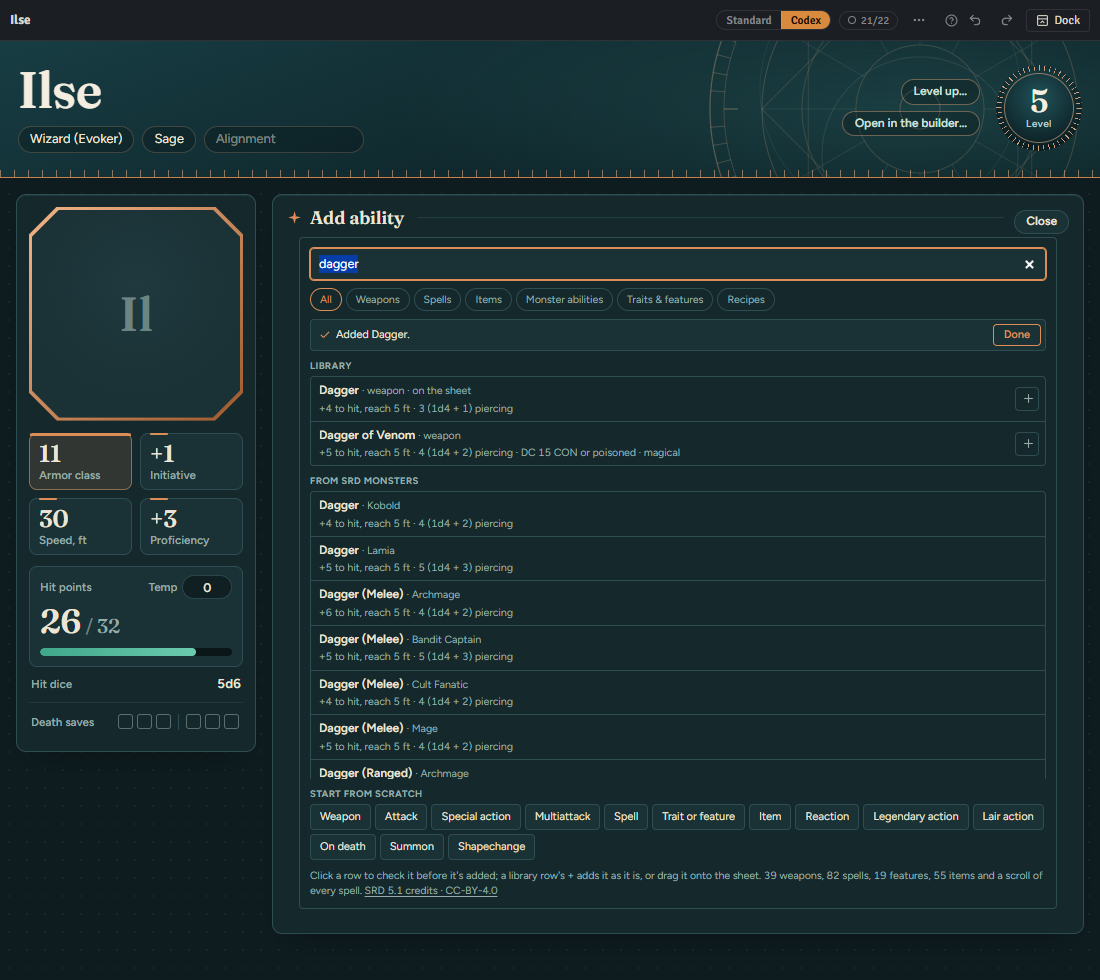
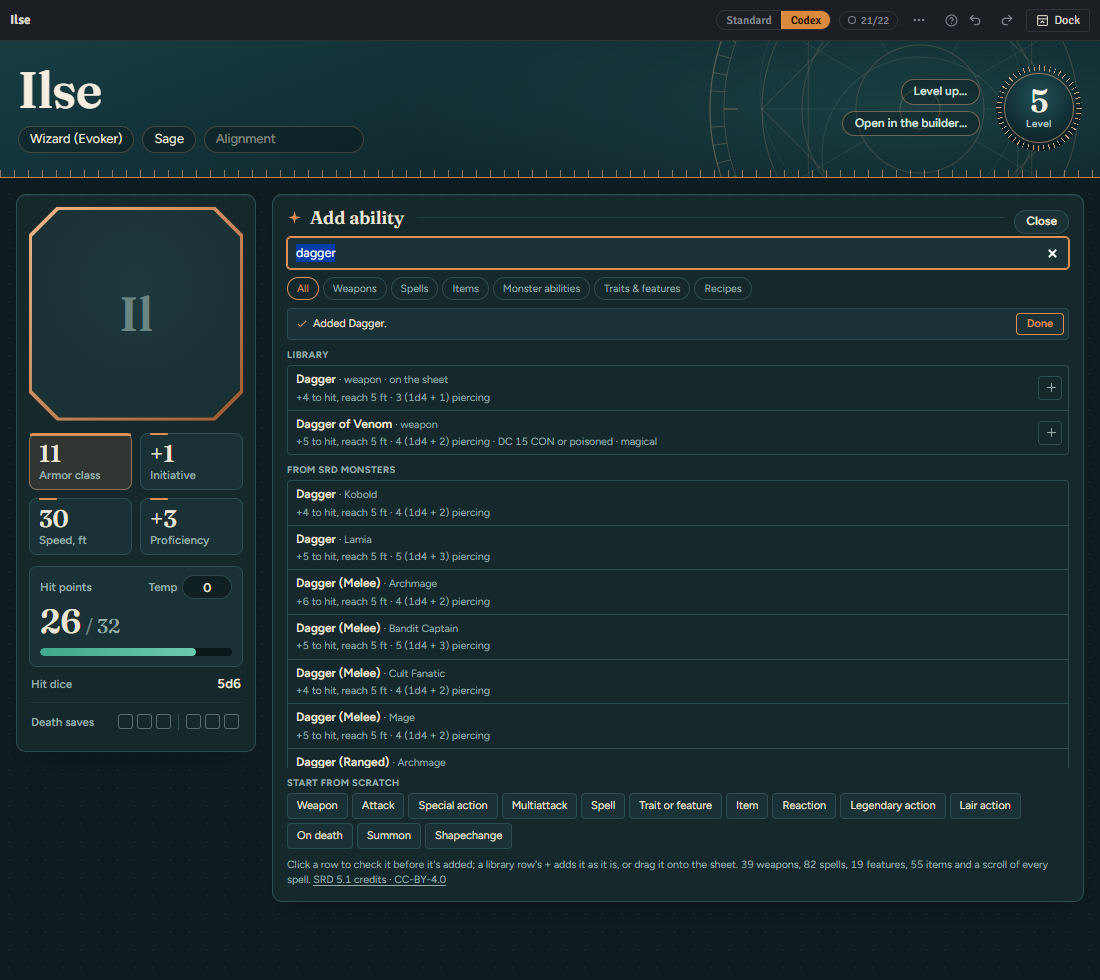
Codex: Add ability without a second frame
AddAbility takes bare (no frame, margin or background of its own), and the
Codex uses it inside its panel.

Changed region(s): [[0.2473, 0.2449, 0.9891, 0.9184], [0.8964, 0.3061, 0.9582, 0.398], [0.9273, 0.4286, 0.9582, 0.4592]]

diff --git a/src/components/sheet/abilities/AddAbility.tsx b/src/components/sheet/abilities/AddAbility.tsx
@@ -65,7 +65,7 @@ function onSheet(definition: CreatureDefinition): Set<string> {
  * to start from scratch. A row opens the editor on a ready copy, and nothing is added until Save; a library row's "+"
  * adds it at once and leaves the panel open for the next one, and it can be dragged onto the sheet.
  */
-export function AddAbility({ definition, compendium, onPrepared, onAttach, onBlank, onClose, initialFilter = "all" }: {
+export function AddAbility({ definition, compendium, onPrepared, onAttach, onBlank, onClose, initialFilter = "all", bare = false }: {
   definition: CreatureDefinition;
   compendium?: Compendium;
   onPrepared: (prepared: Prepared) => void;
@@ -74,6 +74,8 @@ export function AddAbility({ definition, compendium, onPrepared, onAttach, onBla
   onClose: () => void;
   /** What it shows first: All, or (the Codex's Spells and Items tabs) Spells or Items. */
   initialFilter?: AddFilter;
+  /** Without its own frame, inside a panel that has one (the Codex's). */
+  bare?: boolean;
 }) {
   const [query, setQuery] = useState("");
   const [filter, setFilter] = useState<AddFilter>(initialFilter);
@@ -149,7 +151,7 @@ export function AddAbility({ definition, compendium, onPrepared, onAttach, onBla
   const open5eItems = filter === "items";
   const nothing = !showRecipes && !results.library.length && !results.monster.length;
   return (
-    <div className={styles.add} role="region" aria-label="Add ability">
+    <div className={`${styles.add} ${bare ? styles.addBare : ""}`} role="region" aria-label="Add ability">
       <input
         ref={searchRef} type="search" className={styles.search} aria-label="Search abilities" value={query}
         placeholder="Search weapons, spells, items, monster abilities and recipes" onChange={(event) => { setQuery(event.target.value); setOpen5e(false); }}

diff --git a/src/components/sheet/codex/CodexSheet.tsx b/src/components/sheet/codex/CodexSheet.tsx
@@ -203,6 +203,7 @@ export function CodexSheet({ combatant, definition, tokens, onShowToken, palette
                 definition={definition}
                 compendium={compendium}
                 initialFilter={adding}
+                bare
                 onPrepared={(prepared) => editNew(preparedTarget(prepared))}
                 onBlank={(kind) => editNew(blankTarget(kind, definition))}
                 onAttach={attachFromLibrary}

diff --git a/src/components/sheet/abilities/abilities.module.css b/src/components/sheet/abilities/abilities.module.css
@@ -599,6 +599,14 @@
   background: var(--ui-panel);
 }
 
+/* Inside a panel with a frame of its own (the Codex): no second frame. */
+.addBare {
+  margin: 0;
+  padding: 0;
+  border: 0;
+  background: transparent;
+}
+
 .search {
   width: 100%;
   box-sizing: border-box;
